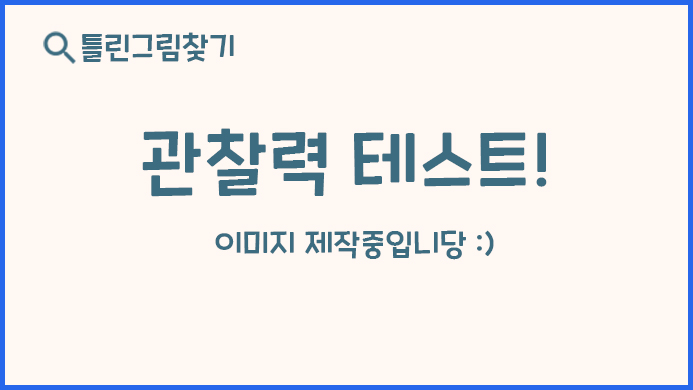
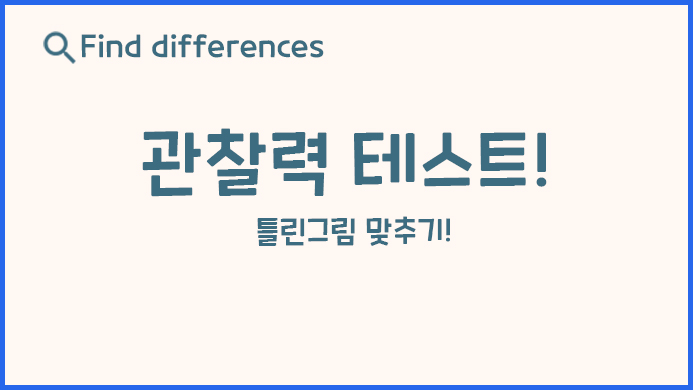
- 언어변경 적용

Changed region(s): [[0.303, 0.5538, 0.7273, 0.6769], [0.1212, 0.0615, 0.4848, 0.1846]]

diff --git a/src/components/common/SiteData.tsx b/src/components/common/SiteData.tsx
@@ -1,4 +1,4 @@
-import React, { ReactElement } from 'react';
+import React, { ReactElement, useEffect, useState } from 'react';
 import { Helmet } from 'react-helmet';
 import { useTranslation } from 'react-i18next';
 import styled, {
@@ -7,6 +7,8 @@ import styled, {
   DefaultTheme,
 } from 'styled-components';
 import CssBaseline from '@material-ui/core/CssBaseline';
+import Select from '@material-ui/core/Select';
+import MenuItem, { MenuItemProps } from '@material-ui/core/MenuItem';
 
 import '@/lib/i18n';
 
@@ -54,6 +56,8 @@ const GlobalStyle = createGlobalStyle`
 
 const Nav = styled.div`
   position: sticky;
+  display: flex;
+  justify-content: space-between;
   top: 0px;
   z-index: 20;
   width: 100%;
@@ -93,14 +97,47 @@ export interface IThemeProps {
   description?: string;
 }
 
+const languages: MenuItemProps[] = [
+  {
+    value: 'ko',
+    key: 'Korean',
+  },
+  {
+    value: 'en',
+    key: 'English',
+  },
+];
+
 export default (props: IThemeProps) => {
-  const { t } = useTranslation();
+  const { t, i18n } = useTranslation();
   const {
     children,
     theme = defaultTheme,
     title = `${t('welcome')}`,
     description = t('welcome'),
   } = props;
+  const [lang, setLang] = useState<string>(
+    globalThis?.window?.localStorage?.getItem('test-world-lang') || 'ko',
+  );
+
+  const handleChange = (
+    e: React.ChangeEvent<{
+      name?: string;
+      value: string;
+    }>,
+  ) => {
+    const { value } = e.target;
+    if (value) {
+      setLang(value);
+      if (globalThis?.window) {
+        globalThis?.window.localStorage.setItem('test-world-lang', value);
+      }
+    }
+  };
+
+  useEffect(() => {
+    i18n.changeLanguage(lang);
+  }, [lang]);
 
   return (
     <ThemeProvider theme={theme}>
@@ -135,11 +172,20 @@ export default (props: IThemeProps) => {
       <GlobalStyle />
       <Nav>
         {/* <a href="/">{t('sitename')}</a> */}
-        <div>
+        <div className="left-side">
           <a href="/">
             <img src="/images/common/logo.png" alt="Test World Logo" />
             <span>{t('sitename')}</span>
           </a>
+        </div>
+        <div className="right-side">
+          <Select onChange={handleChange} value={lang}>
+            {languages.map(({ value, key }) => (
+              <MenuItem key={value} value={value}>
+                {key}
+              </MenuItem>
+            ))}
+          </Select>
         </div>
       </Nav>
       <ContentWrap id="fb-root">{children}</ContentWrap>

diff --git a/src/data/findDiff.ts b/src/data/findDiff.ts
@@ -807,4 +807,40 @@ export const imageData: IFindDiffImageData[] = [
       },
     ],
   },
+
+  {
+    img: '/images/findDiff/celeb/jennies___blackpink/1.jpg',
+    diffImg: '/images/findDiff/celeb/jennies___blackpink/1_diff.jpg',
+    introduce: 'K-POP스타 블랭핑크의 제니입니다!',
+    description: '세계적인 스타 제니입니다!',
+    url: 'https://www.instagram.com/jennies___blackpink',
+    tags: ['셀럽', '연예인', '블랭핑크', '제니', '모델', '셀피'],
+    author: 'jennies___blackpink',
+    diffPoints: [
+      {
+        top: '82%',
+        left: '72%',
+        width: '9%',
+        height: '7%',
+      },
+    ],
+  },
+
+  {
+    img: '/images/findDiff/celeb/jennies___blackpink/2.jpg',
+    diffImg: '/images/findDiff/celeb/jennies___blackpink/2_diff.jpg',
+    introduce: 'K-POP스타 블랭핑크의 제니입니다!',
+    description: '세계적인 스타 제니입니다!',
+    url: 'https://www.instagram.com/jennies___blackpink',
+    tags: ['셀럽', '연예인', '블랭핑크', '제니', '모델', '셀피'],
+    author: 'jennies___blackpink',
+    diffPoints: [
+      {
+        top: '0%',
+        left: '84%',
+        width: '16%',
+        height: '20%',
+      },
+    ],
+  },
 ];

diff --git a/src/pages/index.tsx b/src/pages/index.tsx
@@ -1,4 +1,4 @@
-import React from 'react';
+import React, { useEffect } from 'react';
 import GridList from '@material-ui/core/GridList';
 import GridListTile from '@material-ui/core/GridListTile';
 import GridListTileBar from '@material-ui/core/GridListTileBar';
@@ -23,8 +23,14 @@ const useStyles = makeStyles(() => ({
 }));
 
 export default () => {
-  const { t } = useTranslation();
+  const { t, i18n } = useTranslation();
   const classes = useStyles();
+
+  useEffect(() => {
+    i18n.changeLanguage(
+      globalThis?.window?.localStorage?.getItem('test-world-lang') || 'ko',
+    );
+  }, []);
 
   return (
     <SiteData>

diff --git a/src/data/whoIsThis.ts b/src/data/whoIsThis.ts
@@ -28,6 +28,7 @@ export const FemaleNames: NameTypes = {
   rose: '로제',
   sana: '사나',
   tzuyu: '쯔위',
+  yeonwoo: '연우',
 };
 
 export const MaleNames: NameTypes = {
@@ -165,6 +166,11 @@ export const imageData: IWhoIsThisImageData[] = [
   {
     img: '/images/whoIsThis/tzuyu/1',
     nameKey: 'tzuyu',
+    gender: 'F',
+  },
+  {
+    img: '/images/whoIsThis/yeonwoo/1',
+    nameKey: 'yeonwoo',
     gender: 'F',
   },
   {

diff --git a/src/components/Score/index.tsx b/src/components/Score/index.tsx
@@ -12,11 +12,11 @@ const ColoredScore = styled.div`
   font-size: 32px;
   color: ${(props: ScoreProps) => {
     const { score } = props;
-    if (score > 3) {
-      return 'yellow';
+    if (score > 3 && score <= 6) {
+      return 'green';
     }
     if (score > 6) {
-      return 'green';
+      return 'red';
     }
     return 'black';
   }};

diff --git a/src/components/WhoIsThis/index.tsx b/src/components/WhoIsThis/index.tsx
@@ -88,7 +88,7 @@ export const WhoIsThis = () => {
             <img
               key={i + j}
               src={`${quizImage.img}_${item}.jpg`}
-              alt={quizImage.description}
+              alt={quizImage.nameKey}
             />
           ))}
         </Preview>

diff --git a/src/lib/i18n.ts b/src/lib/i18n.ts
@@ -7,7 +7,7 @@ i18n
   .use(initReactI18next) // passes i18n down to react-i18next
   .init({
     resources,
-    lng: 'ko',
+    lng: globalThis?.window?.localStorage?.getItem('test-world-lang') || 'ko',
     fallbackLng: 'ko',
     interpolation: {
       escapeValue: false,
